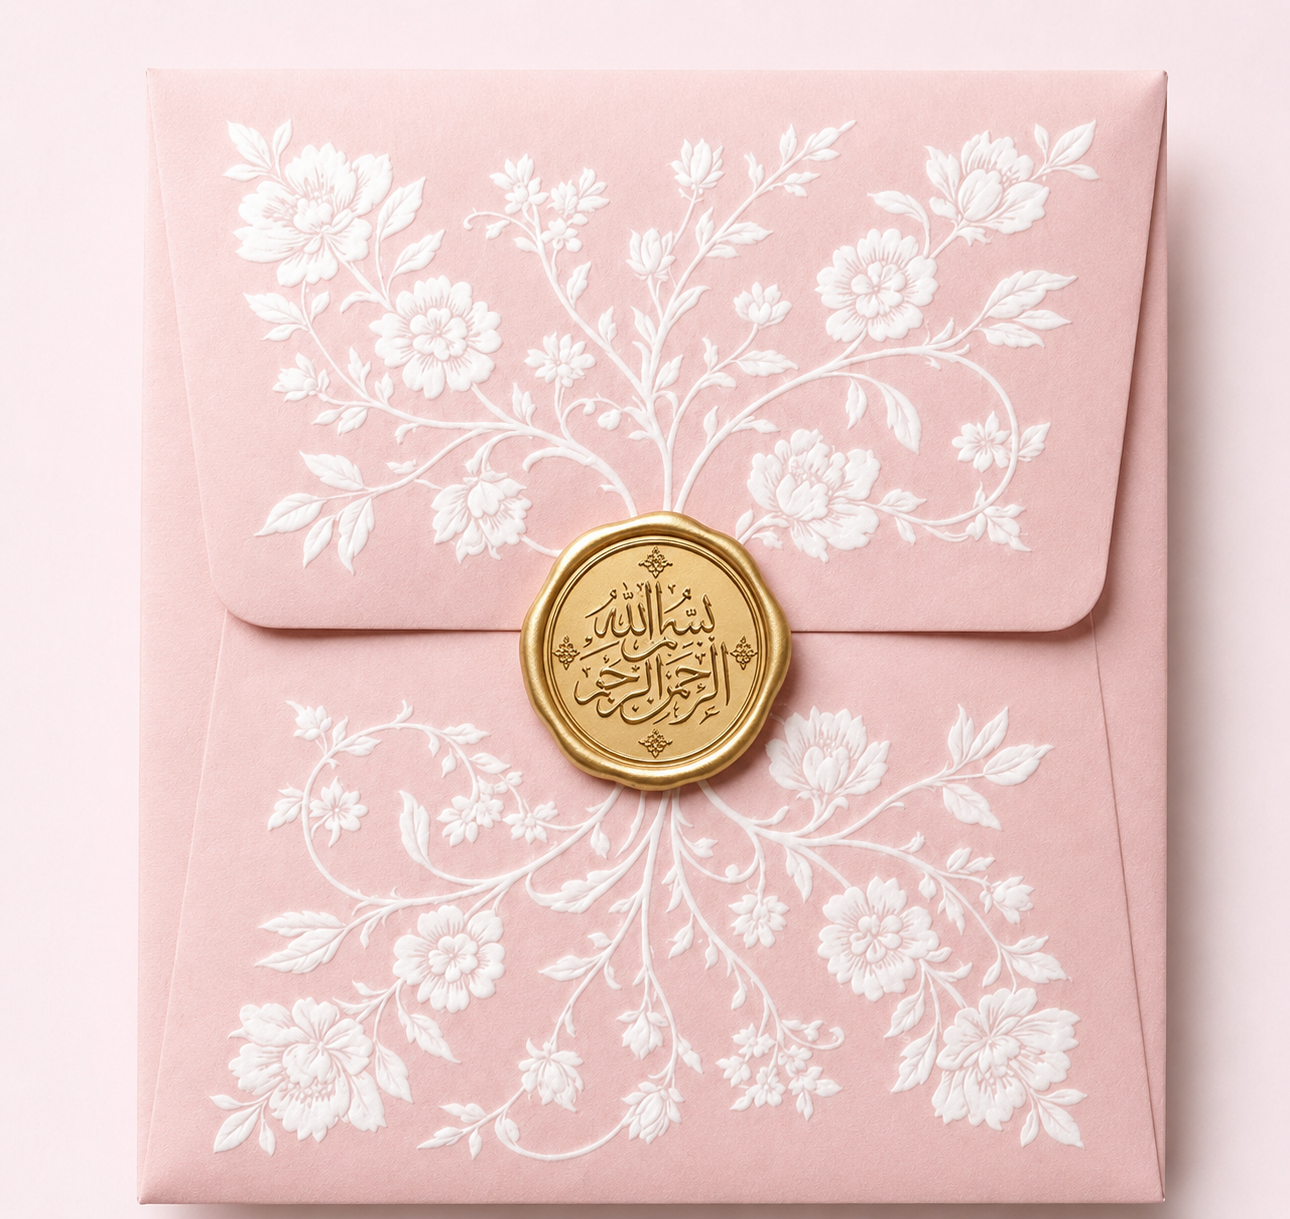
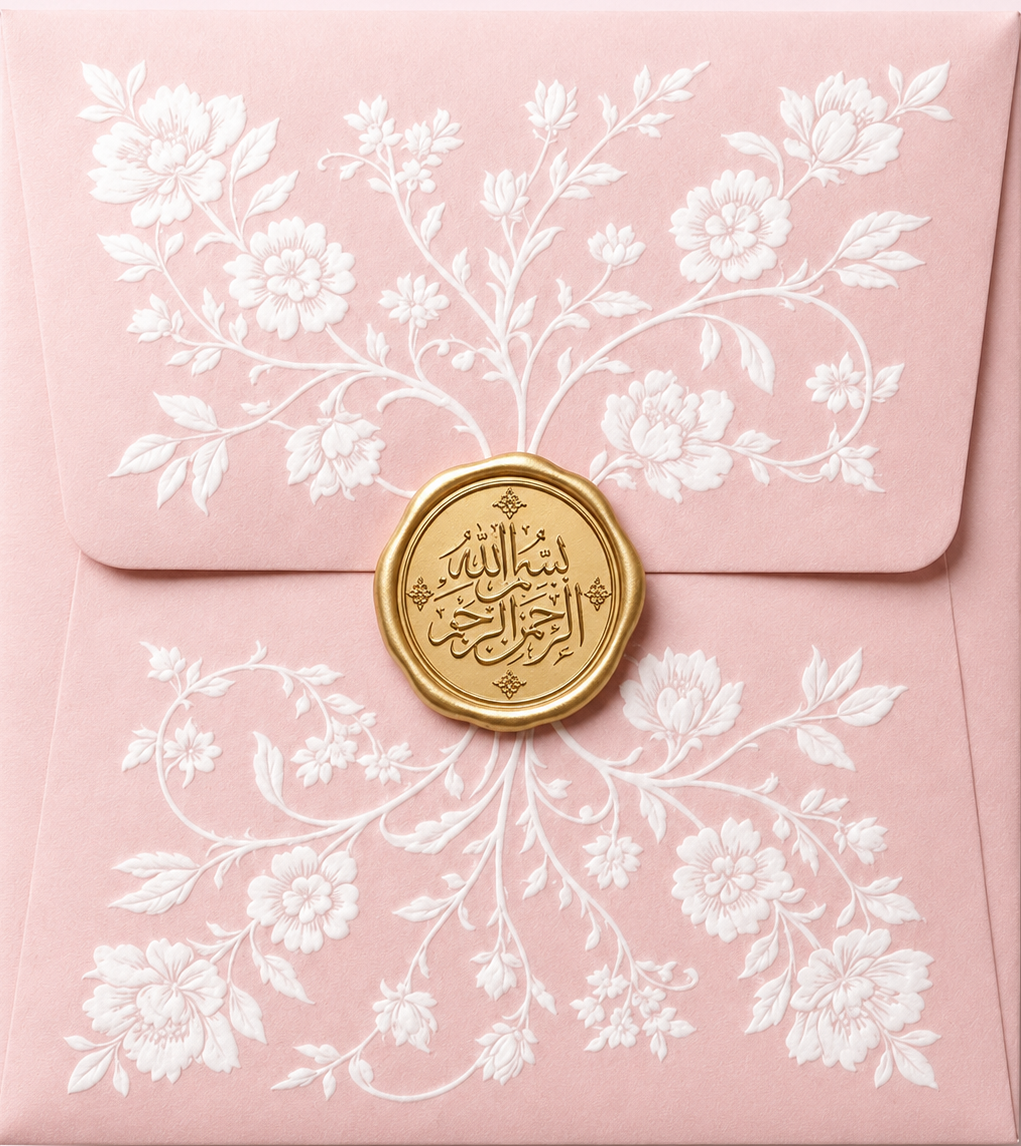
fix: preserve envelope aspect ratio with h-auto responsive width

diff --git a/src/components/EnvelopeHero.jsx b/src/components/EnvelopeHero.jsx
@@ -74,7 +74,7 @@ const EnvelopeHero = ({ onRevealComplete }) => {
       <motion.img
         src="/envelope-hero.png"
         alt="Wedding Invitation Envelope"
-        className="w-[280px] h-[190px] xs:w-[320px] xs:h-[220px] md:w-[480px] md:h-[330px] object-contain cursor-pointer select-none"
+        className="w-[78vw] max-w-[440px] h-auto object-contain cursor-pointer select-none drop-shadow-xl"
         onClick={handleClick}
         whileHover={{ scale: 1.03 }}
         whileTap={{ scale: 0.97 }}